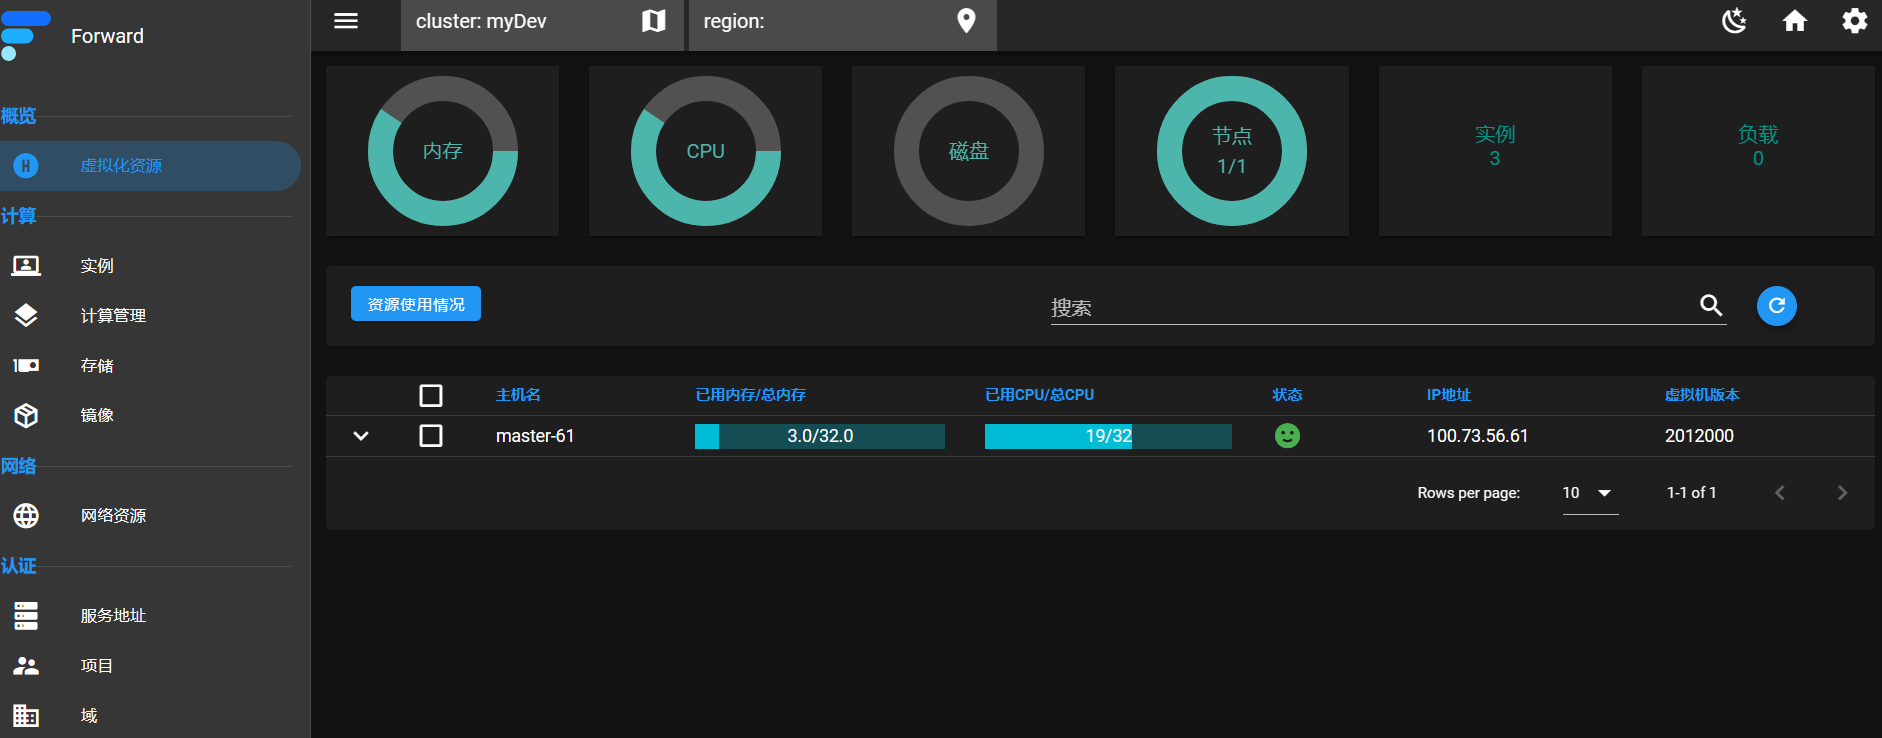
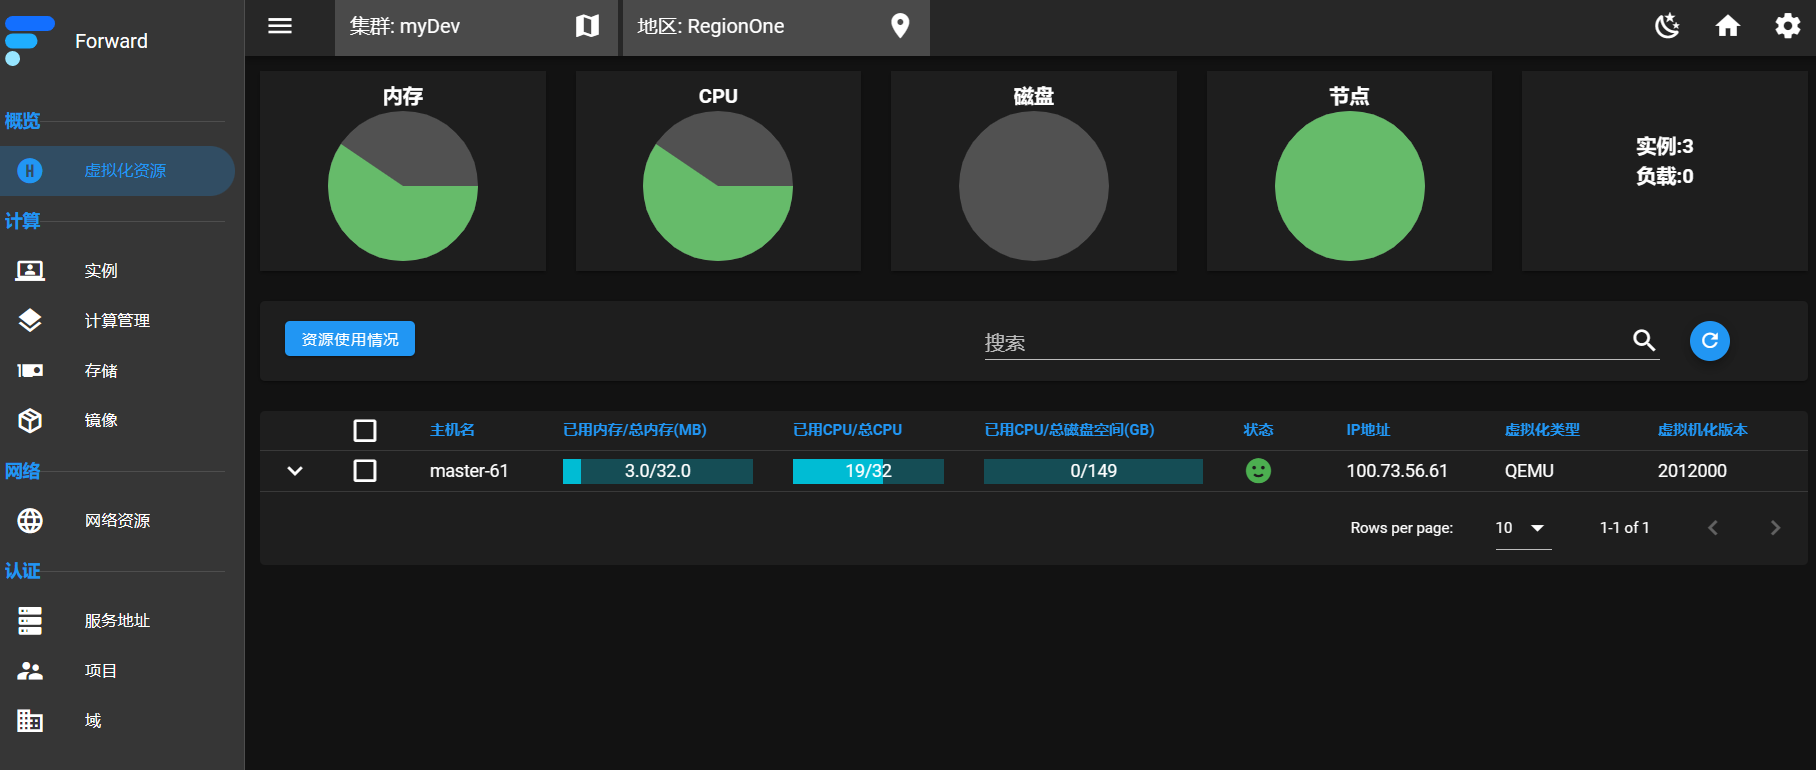
添加配置&修复已知问题

diff --git a/forward/src/components/dashboard/containers/overview/HypervisorPage.vue b/forward/src/components/dashboard/containers/overview/HypervisorPage.vue
@@ -6,7 +6,7 @@
         <v-tooltip bottom>
           <template v-slot:activator="{ on, attrs }">
             <v-progress-circular v-bind="attrs" v-on="on" rotate="360" size="120" width="60"
-              :value="table._memUsedPercent" :color="table._memUsedPercent < 80 ? 'green lighten-1' : 'orange lighten-1'">
+              :value="table._memUsedPercent" :color="table._memUsedPercent < resourceWarningPercent.value ? 'green lighten-1' : 'orange lighten-1'">
             </v-progress-circular>
           </template>
           百分比: {{ table._memUsedPercent }}%<br>剩余: {{ table.statistics.free_ram_mb }}
@@ -19,7 +19,7 @@
         <v-tooltip bottom>
           <template v-slot:activator="{ on, attrs }">
             <v-progress-circular v-bind="attrs" v-on="on" size="120" width="60"
-              :value="table._vcpuUsedPercent" :color="table._vcpuUsedPercent < 80 ? 'green lighten-1' : 'orange lighten-1'">
+              :value="table._vcpuUsedPercent" :color="table._vcpuUsedPercent < resourceWarningPercent.value ? 'green lighten-1' : 'orange lighten-1'">
             </v-progress-circular>
           </template>
           百分比: {{ table._vcpuUsedPercent }}%<br>剩余: {{ table.statistics.vcpus - table.statistics.vcpus_used }}
@@ -32,7 +32,7 @@
         <v-tooltip bottom>
           <template v-slot:activator="{ on, attrs }">
             <v-progress-circular v-bind="attrs" v-on="on" size="120" width="60"
-              :value="table._diskUsedPercent" :color="table._diskUsedPercent < 80 ? 'green lighten-1' : 'orange lighten-1'">
+              :value="table._diskUsedPercent" :color="table._diskUsedPercent < resourceWarningPercent.value ? 'green lighten-1' : 'orange lighten-1'">
             </v-progress-circular>
           </template>
           百分比: {{ table._diskUsedPercent }}%<br>剩余: {{ table.statistics.local_gb - table.statistics.local_gb_used }}
@@ -131,6 +131,7 @@ import { HypervisortTable } from '@/assets/app/tables';
 import { TenantUsageDialog } from '@/assets/app/dialogs';
 
 import UsageDialog from './dialogs/TenantUsageDialog.vue';
+import SETTINGS from '@/assets/app/settings';
 
 export default {
   components: {
@@ -142,6 +143,7 @@ export default {
     I18N: I18N,
     table: new HypervisortTable(),
     tenantUsageDialog: new TenantUsageDialog(),
+    resourceWarningPercent: SETTINGS.ui.getItem('resourceWarningPercent'),
     showUsageDialog: false,
   }),
   methods: {

diff --git a/forward/src/components/dashboard/SettingSheet.vue b/forward/src/components/dashboard/SettingSheet.vue
@@ -5,10 +5,10 @@
                 <h4 class="info--text">{{ I18N.t(SETTINGS.ui.name) }}</h4>
                 <v-divider class="mb-4"></v-divider>
                 <template v-for="(item, key) in SETTINGS.ui.items">
-                    <v-select dense outlined class="mb-0 mt-0" v-bind:key="key" v-if="item.choises" :label="I18N.t(key)" :items="item.choises"
+                    <v-select dense outlined class="my-0" v-bind:key="key" v-if="item.choises" :label="I18N.t(key)" :items="item.choises"
                         v-model="item.value" v-on:change="SETTINGS.ui.save(item.value)">
                     </v-select>
-                    <v-switch class="mb-4 mt-0" dense v-else-if="item.type == Boolean" v-bind:key="key" :label="I18N.t(key)"
+                    <v-switch class="my-0" dense v-else-if="item.type == Boolean" v-bind:key="key" :label="I18N.t(key)"
                         v-model="item.value" v-on:change="SETTINGS.ui.save(key)"></v-switch>
                     <v-text-field v-else v-bind:key="key" :label="I18N.t(key)" v-model="item.value"
                         v-on:change="SETTINGS.ui.save(key)">{{ item.value }}</v-text-field>
@@ -18,10 +18,10 @@
                 <h4 class="info--text">{{ I18N.t(SETTINGS.openstack.name) }}</h4>
                 <v-divider class="mb-4"></v-divider>
                 <template v-for="(item, key) in SETTINGS.openstack.items">
-                    <v-select dense outlined v-bind:key="key" v-if="item.choises" :label="I18N.t(key)" :items="item.choises"
+                    <v-select dense outlined class="mb-0 mt-0" v-bind:key="key" v-if="item.choises" :label="I18N.t(key)" :items="item.choises"
                         v-model="item.value" v-on:change="SETTINGS.openstack.save(key)">
                     </v-select>
-                    <v-switch class="ma-0" dense v-else-if="item.type == Boolean" v-bind:key="key" :label="I18N.t(key)"
+                    <v-switch class="my-0" dense v-else-if="item.type == Boolean" v-bind:key="key" :label="I18N.t(key)"
                         v-model="item.value" v-on:change="SETTINGS.openstack.save(key)"></v-switch>
                     <v-text-field outlined dense v-else v-bind:key="key" :label="I18N.t(key)" v-model="item.value"
                         v-on:change="SETTINGS.openstack.save(key)">{{ item.value }}</v-text-field>

diff --git a/forward/src/assets/app/dialogs.js b/forward/src/assets/app/dialogs.js
@@ -729,7 +729,6 @@ export class NewServerDialog extends Dialog {
     constructor() {
         super({
             name: '', flavor: '', image: '', netId: '',
-            useBdm: true,
             nums: 1, az: '', host: '',
             password: ''
         });
@@ -748,7 +747,8 @@ export class NewServerDialog extends Dialog {
         this.volumeTypes = [];
         this.securityGroups = [];
         this.authInfo = null;
-        this.volumeSize = SETTINGS.openstack.getItem('volumeSizeDefault').getValue();
+        this.useBdm = SETTINGS.openstack.getItem('bootWithVolume').value;
+        this.volumeSize = SETTINGS.openstack.getItem('volumeSizeDefault').value;
         this.volumeSizeMin = SETTINGS.openstack.getItem('volumeSizeMin').value;
     }
     async refresPorts() {
@@ -772,10 +772,14 @@ export class NewServerDialog extends Dialog {
         // 获取规格
         this.flavors = (await API.flavor.detail()).flavors;
         this.flavors.sort(function (flavor1, flavor2) { return flavor1.name.localeCompare(flavor2.name) })
-        if (this.flavors.length > 0) { this.params.flavor = this.flavors[0].id }
+        if (this.flavors.length > 0 && !this.params.flavor) {
+            this.params.flavor = this.flavors[0].id
+        }
         // 获取镜像
         this.images = (await API.image.listActive()).images;
-        if (this.images.length > 0) { this.params.image = this.images[0].id }
+        if (this.images.length > 0 && !this.params.image) {
+            this.params.image = this.images[0].id
+        }
     }
     async refreshVolumeTypes() {
         this.volumeTypes = (await API.volumeType.list()).volume_types;
@@ -816,7 +820,7 @@ export class NewServerDialog extends Dialog {
         if (this.params.netId) { networks.push({ uuid: this.params.netId }) }
         let data = {
             minCount: this.params.nums, maxCount: this.params.nums,
-            useBdm: this.params.useBdm, volumeSize: this.params.volumeSize,
+            useBdm: this.useBdm, volumeSize: this.volumeSize,
             networks: networks,
             az: this.params.az == '自动选择' ? null : this.params.az,
             host: this.params.host,

diff --git a/forward/src/assets/app/i18n.js b/forward/src/assets/app/i18n.js
@@ -50,12 +50,15 @@ const MESSAGES = {
         new: 'new',
         workload: 'Workload',
         serverTopology: 'Server Topology',
+        // 配置项解释
+        uiSettings: 'UI Settings',
+        openstackSettings: 'OpenStack Settings',
         defaultRegion: 'Default regoin',
         imageUploadBlockSize: 'Size of image block to upload',
-        uiSettings: 'UI Settings',
-        openstackSettings: 'UI Settings',
         refreshAfterChanged: 'Please refresh page after changed',
-        consoleLogWidth: 'Width of console log dialog'
+        consoleLogWidth: 'Width of console log dialog',
+        resourceWarningPercent: 'Resource warning percent',
+        bootWithVolume: 'Boot with volume',
     },
     'zh-CN': {
         language: '语言',
@@ -81,7 +84,7 @@ const MESSAGES = {
         hostName: '主机名',
         usedAndTotalMemory: '已用内存/总内存(MB)',
         usedAndTotalCPU: '已用CPU/总CPU',
-        usedAndTotalDisk: '已用CPU/总磁盘空间(GB)',
+        usedAndTotalDisk: '已用磁盘/总磁盘空间(GB)',
         ipAddress: 'IP地址',
         hypervisorVersion: '虚拟机化版本',
         hypervisorType: '虚拟化类型',
@@ -105,13 +108,15 @@ const MESSAGES = {
         new: '新建',
         workload: '负载',
         serverTopology: '虚拟机拓扑',
-        defaultRegion: '默认地区',
-        imageUploadBlockSize: '镜像分块上传的大小',
+        // 配置项解释
         uiSettings: '界面配置',
         openstackSettings: 'OpenStack 配置',
+        defaultRegion: '默认地区',
+        imageUploadBlockSize: '镜像分块上传的大小',
         refreshAfterChanged: '修改后请刷新页面',
-        consoleLogWidth: '控制台日志对话框长度'
-
+        consoleLogWidth: '控制台日志对话框长度',
+        resourceWarningPercent: '资源警告阈值(%)',
+        bootWithVolume: '使用云盘创建实例',
     },
 };
 

diff --git a/forward/src/assets/app/settings.js b/forward/src/assets/app/settings.js
@@ -96,25 +96,25 @@ export class SettingGroup {
     }
 }
 
-const refreshAfterChanged = I18N.t('refreshAfterChanged');
-
 export class AppSettings {
     constructor() {
         this.ui = new SettingGroup(
             'uiSettings',
             {
-                language: new Setting(navigator.language, { choises: LANGUAGE, onChangeCallback: I18N.setDisplayLang, message: refreshAfterChanged }),
-                themeDark: new BooleanSetting(false, {message: refreshAfterChanged}),
-                navigatorWidth: new NumberSetting(200, { choises: [200, 220, 240, 260, 280, 300], message: refreshAfterChanged }),
+                language: new Setting(navigator.language, { choises: LANGUAGE, onChangeCallback: I18N.setDisplayLang }),
+                themeDark: new BooleanSetting(false),
+                navigatorWidth: new NumberSetting(200, { choises: [200, 220, 240, 260, 280, 300] }),
                 messagePosition: new Setting('bottom-right', { choises: NOTIFY_POSITION }),
                 alertPosition: new Setting('bottom', { choises: NOTIFY_POSITION }),
                 consoleLogWidth: new NumberSetting(1000, { choises: [800, 1000, 1200, 1400, 1600] }),
+                resourceWarningPercent: new NumberSetting(80, { choises: [50, 60 , 70, 80, 90] }),
             }
         );
         this.openstack = new SettingGroup(
             'openstackSettings',
             {
                 defaultRegion: new Setting('RegionOne'),
+                bootWithVolume: new BooleanSetting(true),
                 volumeSizeDefault: new NumberSetting(40, { 'choises': [1, 10, 20, 30, 40, 50] }),
                 volumeSizeMin: new NumberSetting(40, { 'choises': [1, 10, 20, 30, 40, 50] }),
                 imageUploadBlockSize: new NumberSetting(10, { 'choises': [1, 5, 10, 20, 40, 80, 160] }),

diff --git a/forward/src/components/dashboard/containers/compute/dialogs/NewServerDialog.vue b/forward/src/components/dashboard/containers/compute/dialogs/NewServerDialog.vue
@@ -32,18 +32,18 @@
                                 </v-select>
                             </v-col>
                             <v-col cols="2">
-                                <v-switch v-model="dialog.params.useBdm" label="创建卷" class="my-auto"
+                                <v-switch v-model="dialog.useBdm" label="创建卷" class="my-auto"
                                     hide-details></v-switch>
                             </v-col>
                             <v-col cols="4">
-                                <v-select hide-details :disabled="!dialog.params.useBdm" :items="dialog.volumeTypes"
+                                <v-select hide-details :disabled="!dialog.useBdm" :items="dialog.volumeTypes"
                                     clearable label="卷类型" dense item-text="name" item-value="id"
                                     @click="dialog.refreshVolumeTypes()" v-model="dialog.volumeType">
                                     <template v-slot:selection="{ item }"> {{ item.name }} </template>
                                 </v-select>
                             </v-col>
                             <v-col cols="12">
-                                <v-slider :disabled="!dialog.params.useBdm" hide-details v-model="dialog.volumeSize"
+                                <v-slider :disabled="!dialog.useBdm" hide-details v-model="dialog.volumeSize"
                                     ticks="always" label="系统卷大小" max="100" :min="dialog.volumeSizeMin" step="10">
                                     <template v-slot:append>
                                         <v-chip label small>{{ dialog.volumeSize }} GB</v-chip>

diff --git a/doc/ChangeLog.md b/doc/ChangeLog.md
@@ -10,10 +10,12 @@
 - [ ] 实例详情中的时间本地化
 - [ ] 显示Subnet详情
 - [ ] 操作记录分页
+- [ ] 查看ChangeLog
 
 ## v0.0.10
 - [x] hypervisor 显示 disk 使用情况
 - [x] ConsoleLog 页面宽度可调整
+- [x] 增加配置: 资源使用警告阈值、默认创建实例时是否使用云盘
 
 ## v0.0.9
 - [X] 前后端分离
